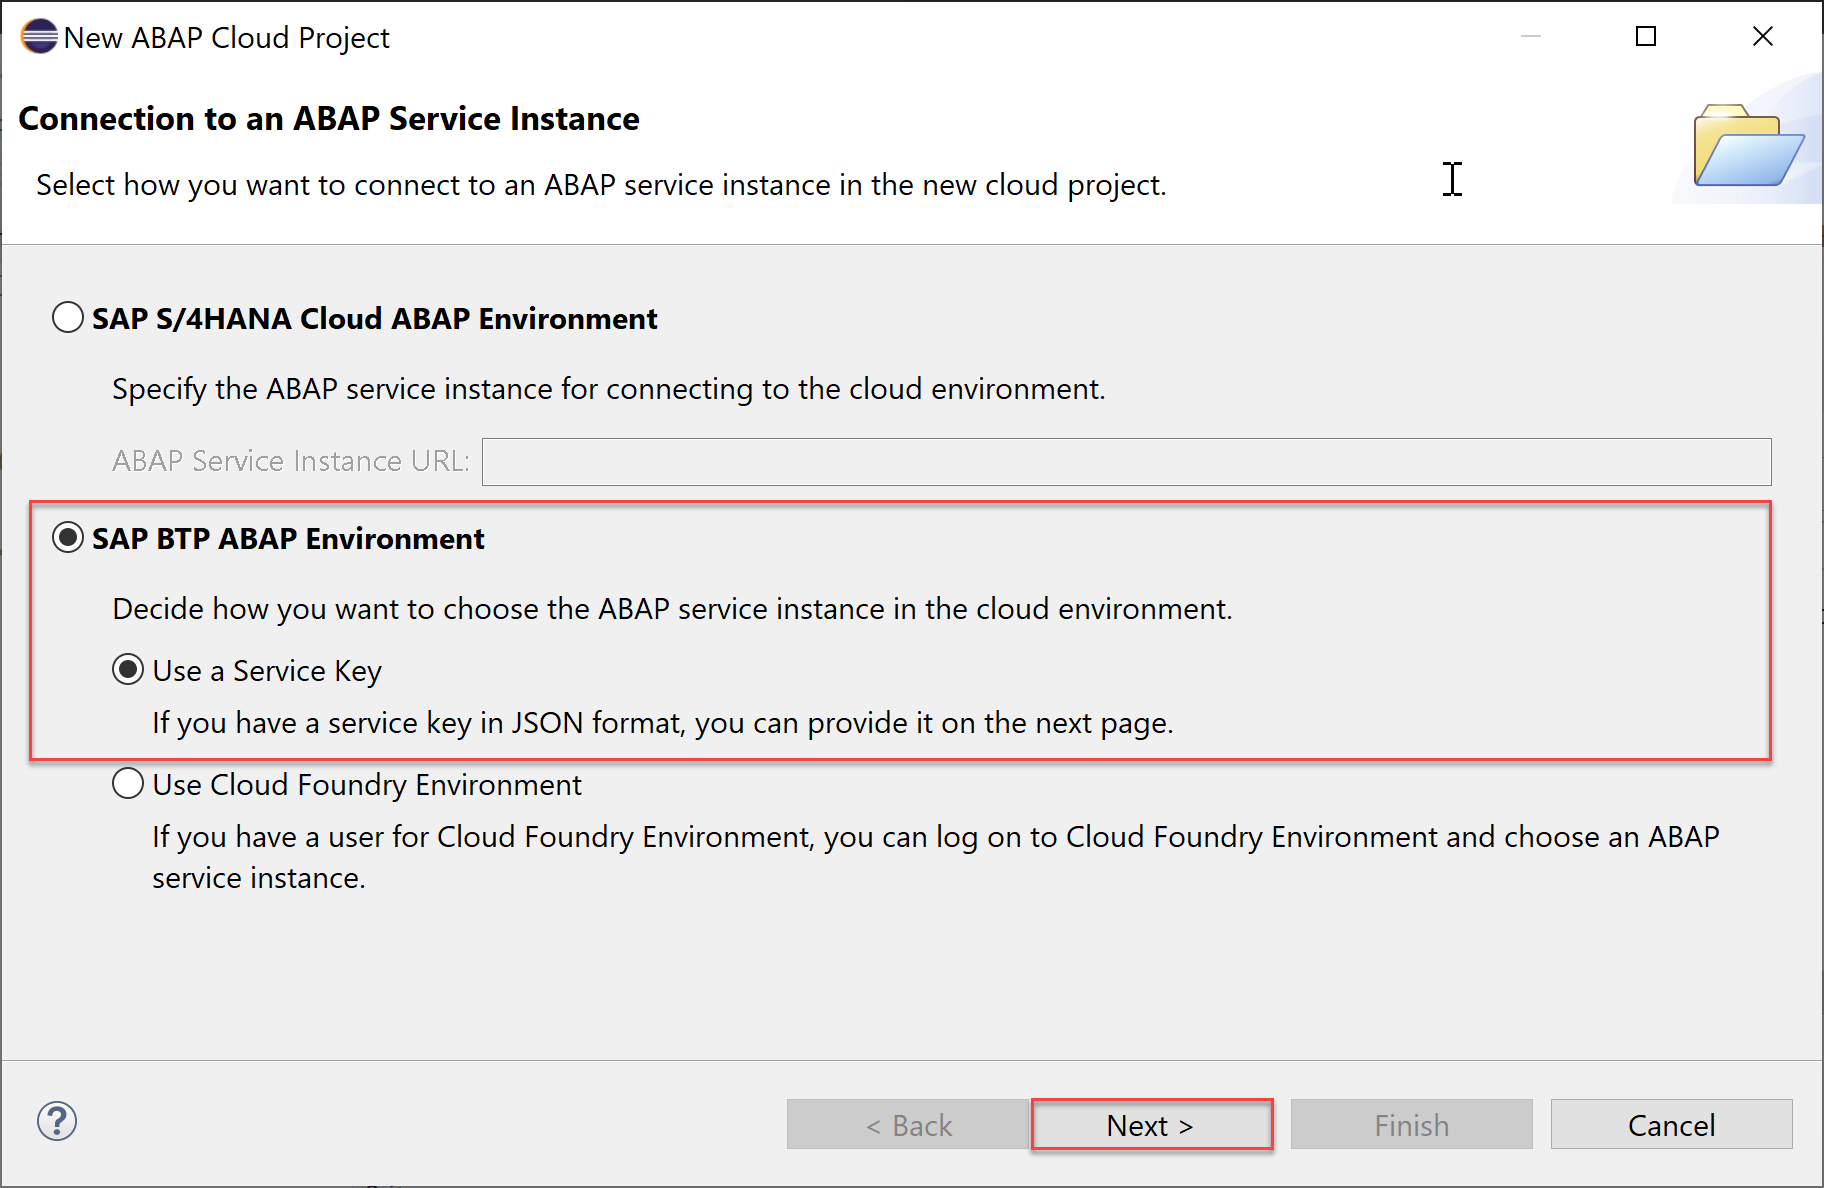
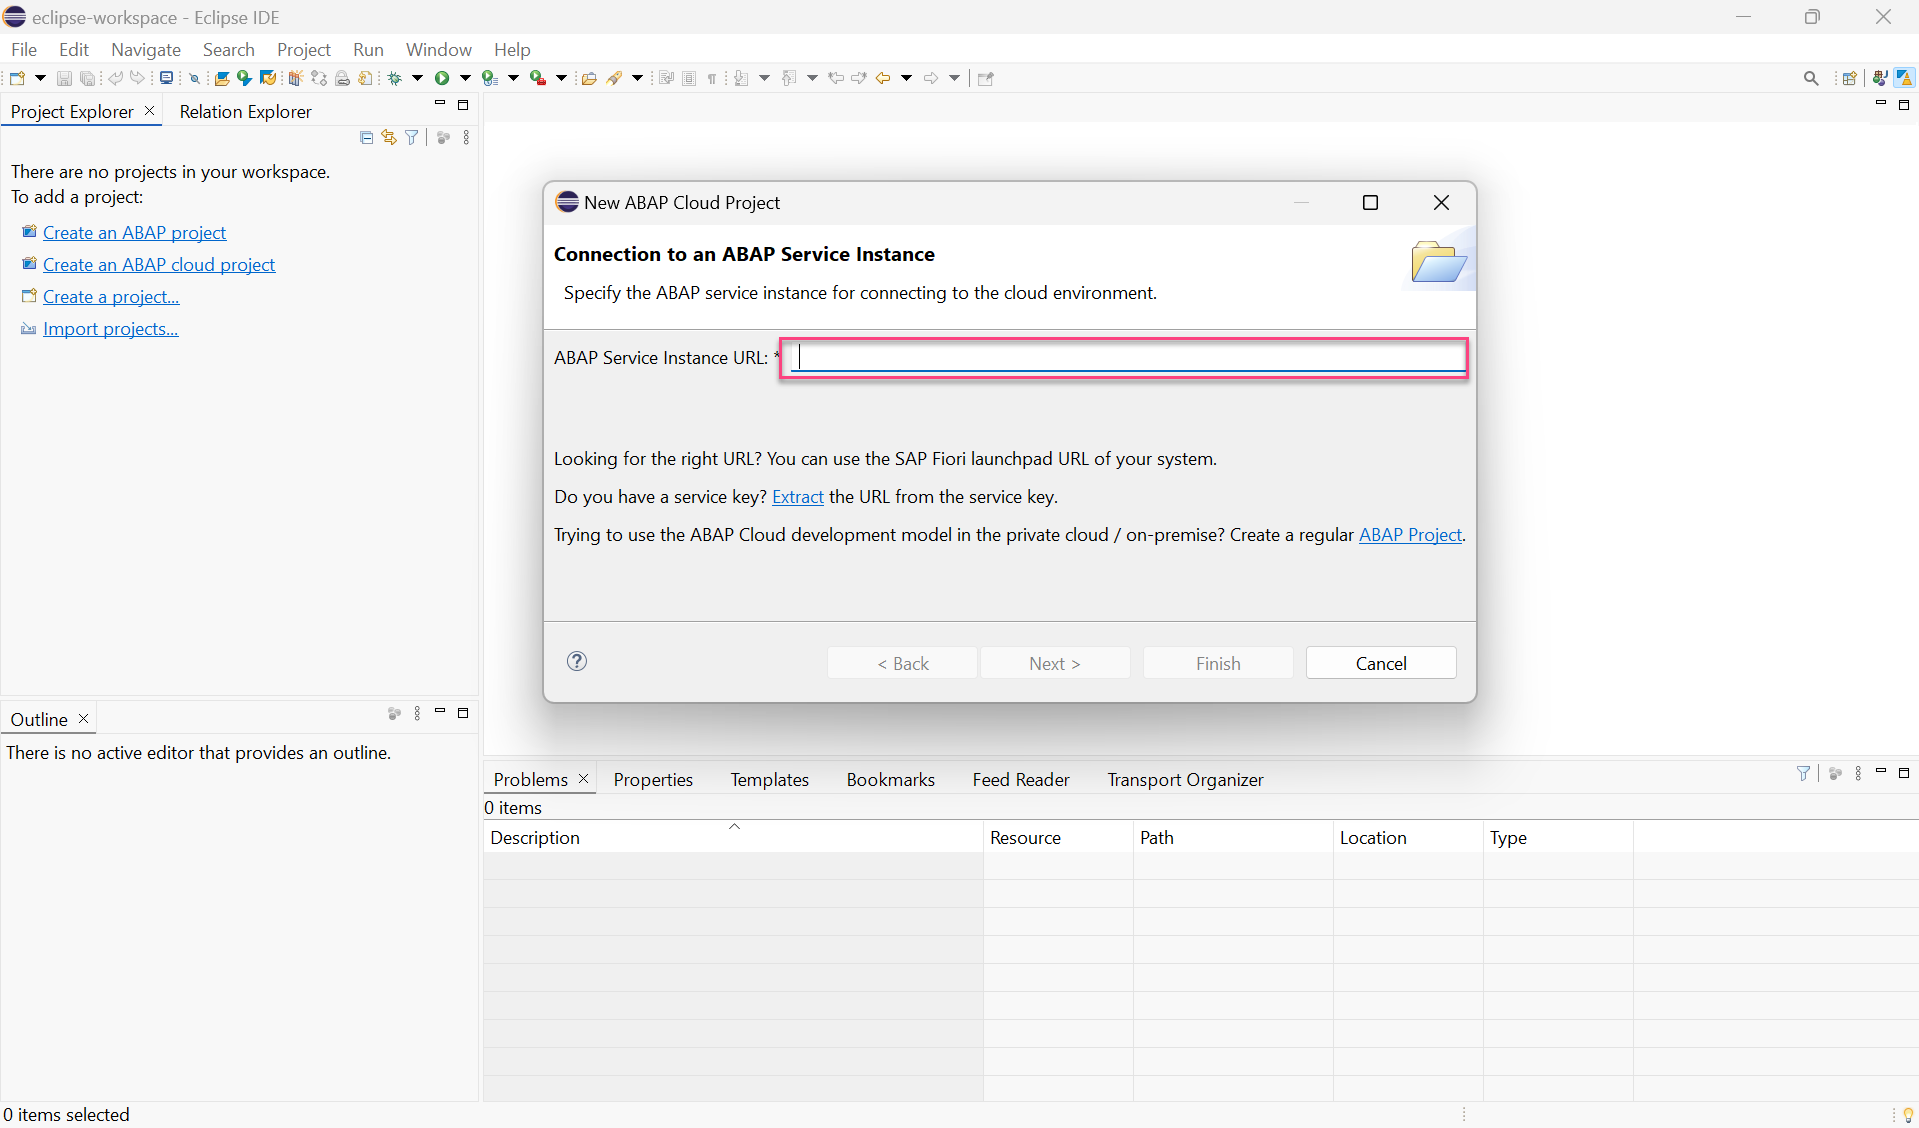
Updated: SK > URL

diff --git a/tutorials/abap-environment-create-abap-cloud-project/abap-environment-create-abap-cloud-project.md b/tutorials/abap-environment-create-abap-cloud-project/abap-environment-create-abap-cloud-project.md
@@ -16,7 +16,7 @@ author_profile: https://github.com/mervey45
 
 
 ## You will learn  
-  - How to create an ABAP Cloud project
+  - How to create an ABAP Cloud project. Each ABAP Cloud project represents a connection to one ABAP instance. You can see all your ABAP Projects in the Project Explorer.
 
 ---
 
@@ -26,43 +26,40 @@ author_profile: https://github.com/mervey45
 
 Open Eclipse. Make sure you have installed ADT in your Eclipse. Find [here](abap-install-adt) the Eclipse installation instruction.
 
-![Create service definition](eclipse.png)
+<!-- border -->
+![eclipse-icon](eclipse.png)
 
 
 ### Create ABAP cloud project
 
-  1. Select **File** > **New** > **Other** > **ABAP Cloud Project** and click **Next >**.
+1. Select **File** > **New** > **Other** > **ABAP Cloud Project** and click **Next >**.
 
-      ![Create ABAP cloud project](cloud.png)
+    <!-- border -->
+    ![Create ABAP cloud project](cloud.png)
 
-  2. Select **SAP BTP ABAP Environment** > **Use a Service Key** and click **Next >**.
+2. Enter the URL for your ABAP instance.
 
-     ![Create ABAP cloud project](project2x.png)
+    <!-- border -->
+    ![Create ABAP cloud project](project2x.png)
 
-    >**Hint:** You have downloaded the service key in [Create an SAP BTP ABAP Environment Trial User](abap-environment-trial-onboarding).
+3. Click **Open Logon Page in Browser**.
 
-  3. Import your service key and click **Next >**.
+    <!-- border -->
+    ![Create ABAP cloud project](project44.png)
 
-      ![Create ABAP cloud project](skey.png)
+  >**Hint:** If you are already logged on in the default browser with a user that you do not want to use for this project, then use the **Copy Logon URL to Clipboard** option and paste the URL in a browser started in private or incognito mode or a non-default browser.
 
-  4. Click **Open Logon Page in Browser**.
+4. Now you've been authenticated automatically. Provide your credentials if requested. The credentials are the same you used to create your trial account on SAP BTP.
 
-      ![Create ABAP cloud project](project44.png)
+5. Go back to ADT and choose **Finish**.
 
-    >**Hint:** If you are already logged on in the default browser with a user which you do not want to use for this project, then use the **Copy Logon URL to Clipboard** option and paste the URL in a browser started in private or incognito mode or a non defaulted browser.
+    <!-- border -->
+    ![Create ABAP cloud project](project52.png)
 
-  5. Now you've been authenticated automatically. Provide your credentials if requested. The credentials are the same you used to create your trial account on SAP BTP.
- 
-     Go back to ADT.
+Your trial system appears on the project explorer.
 
-      ![Create ABAP cloud project](project52.png)
-
-      Click **Finish**.
-
-
-  6. Your trial system appears on the project explorer.
-
-      ![Create ABAP cloud project](project62.png)
+<!-- border -->
+![Create ABAP cloud project](project62.png)
 
 
 ### Test yourself
